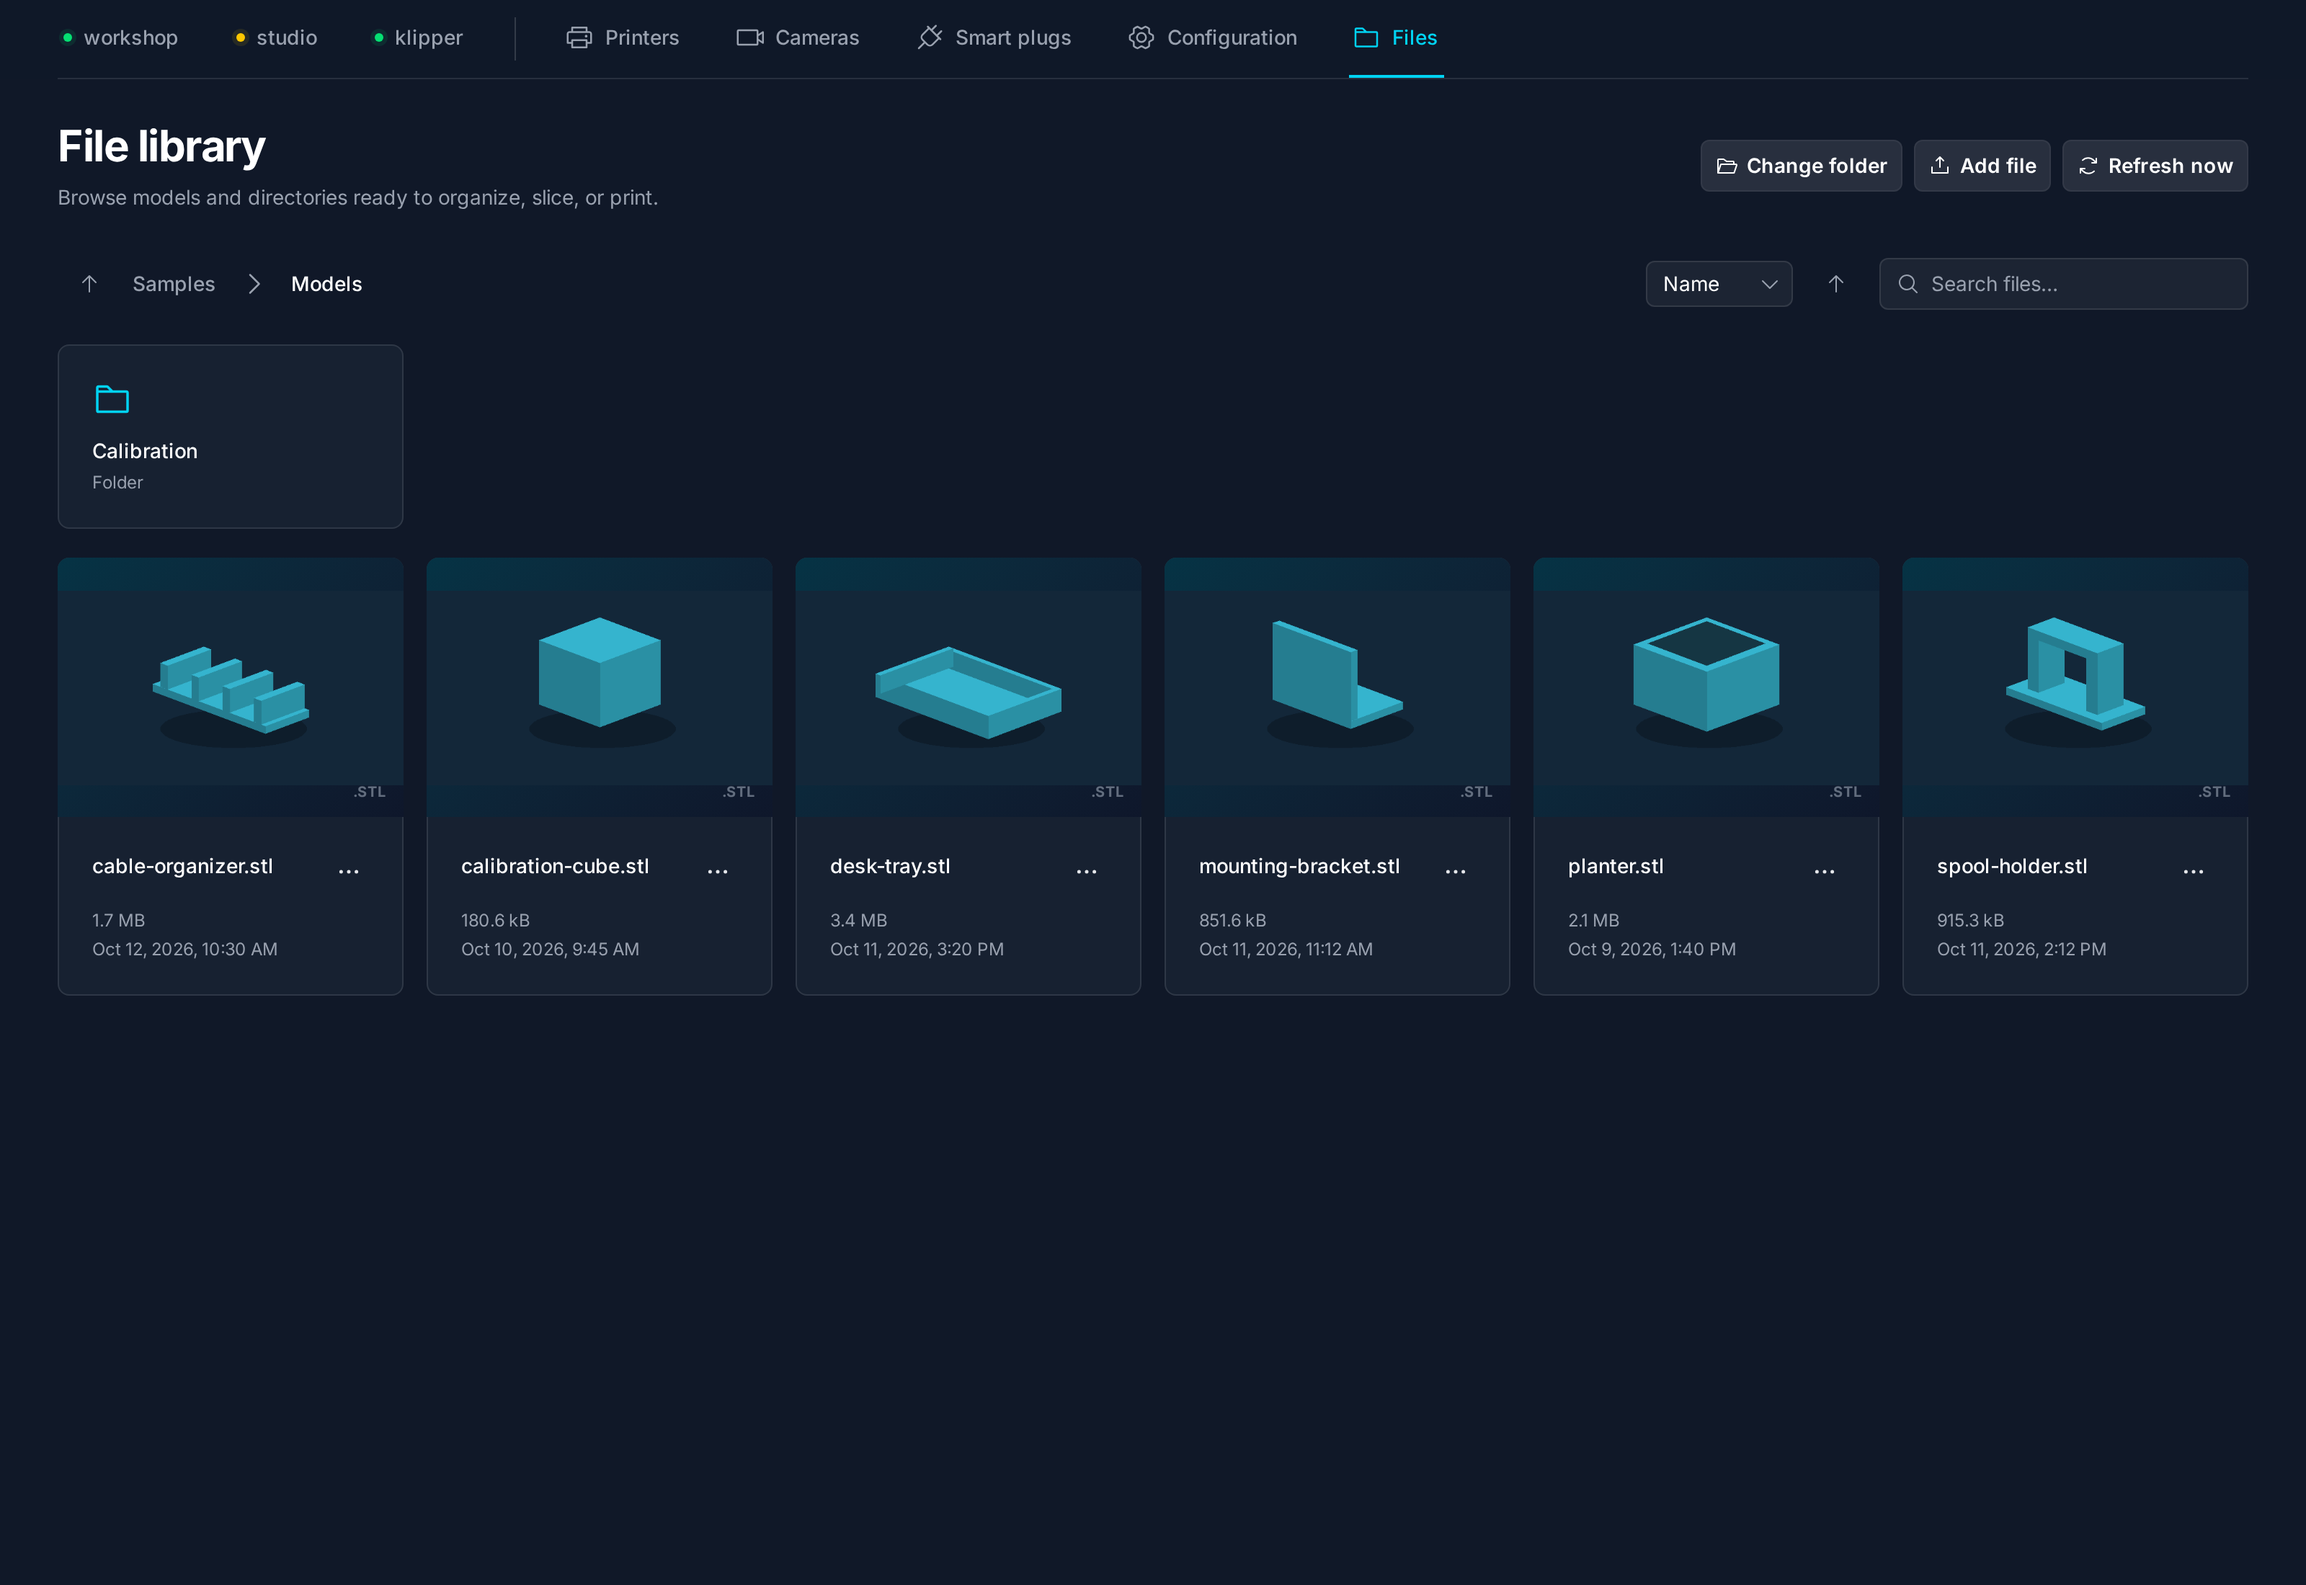
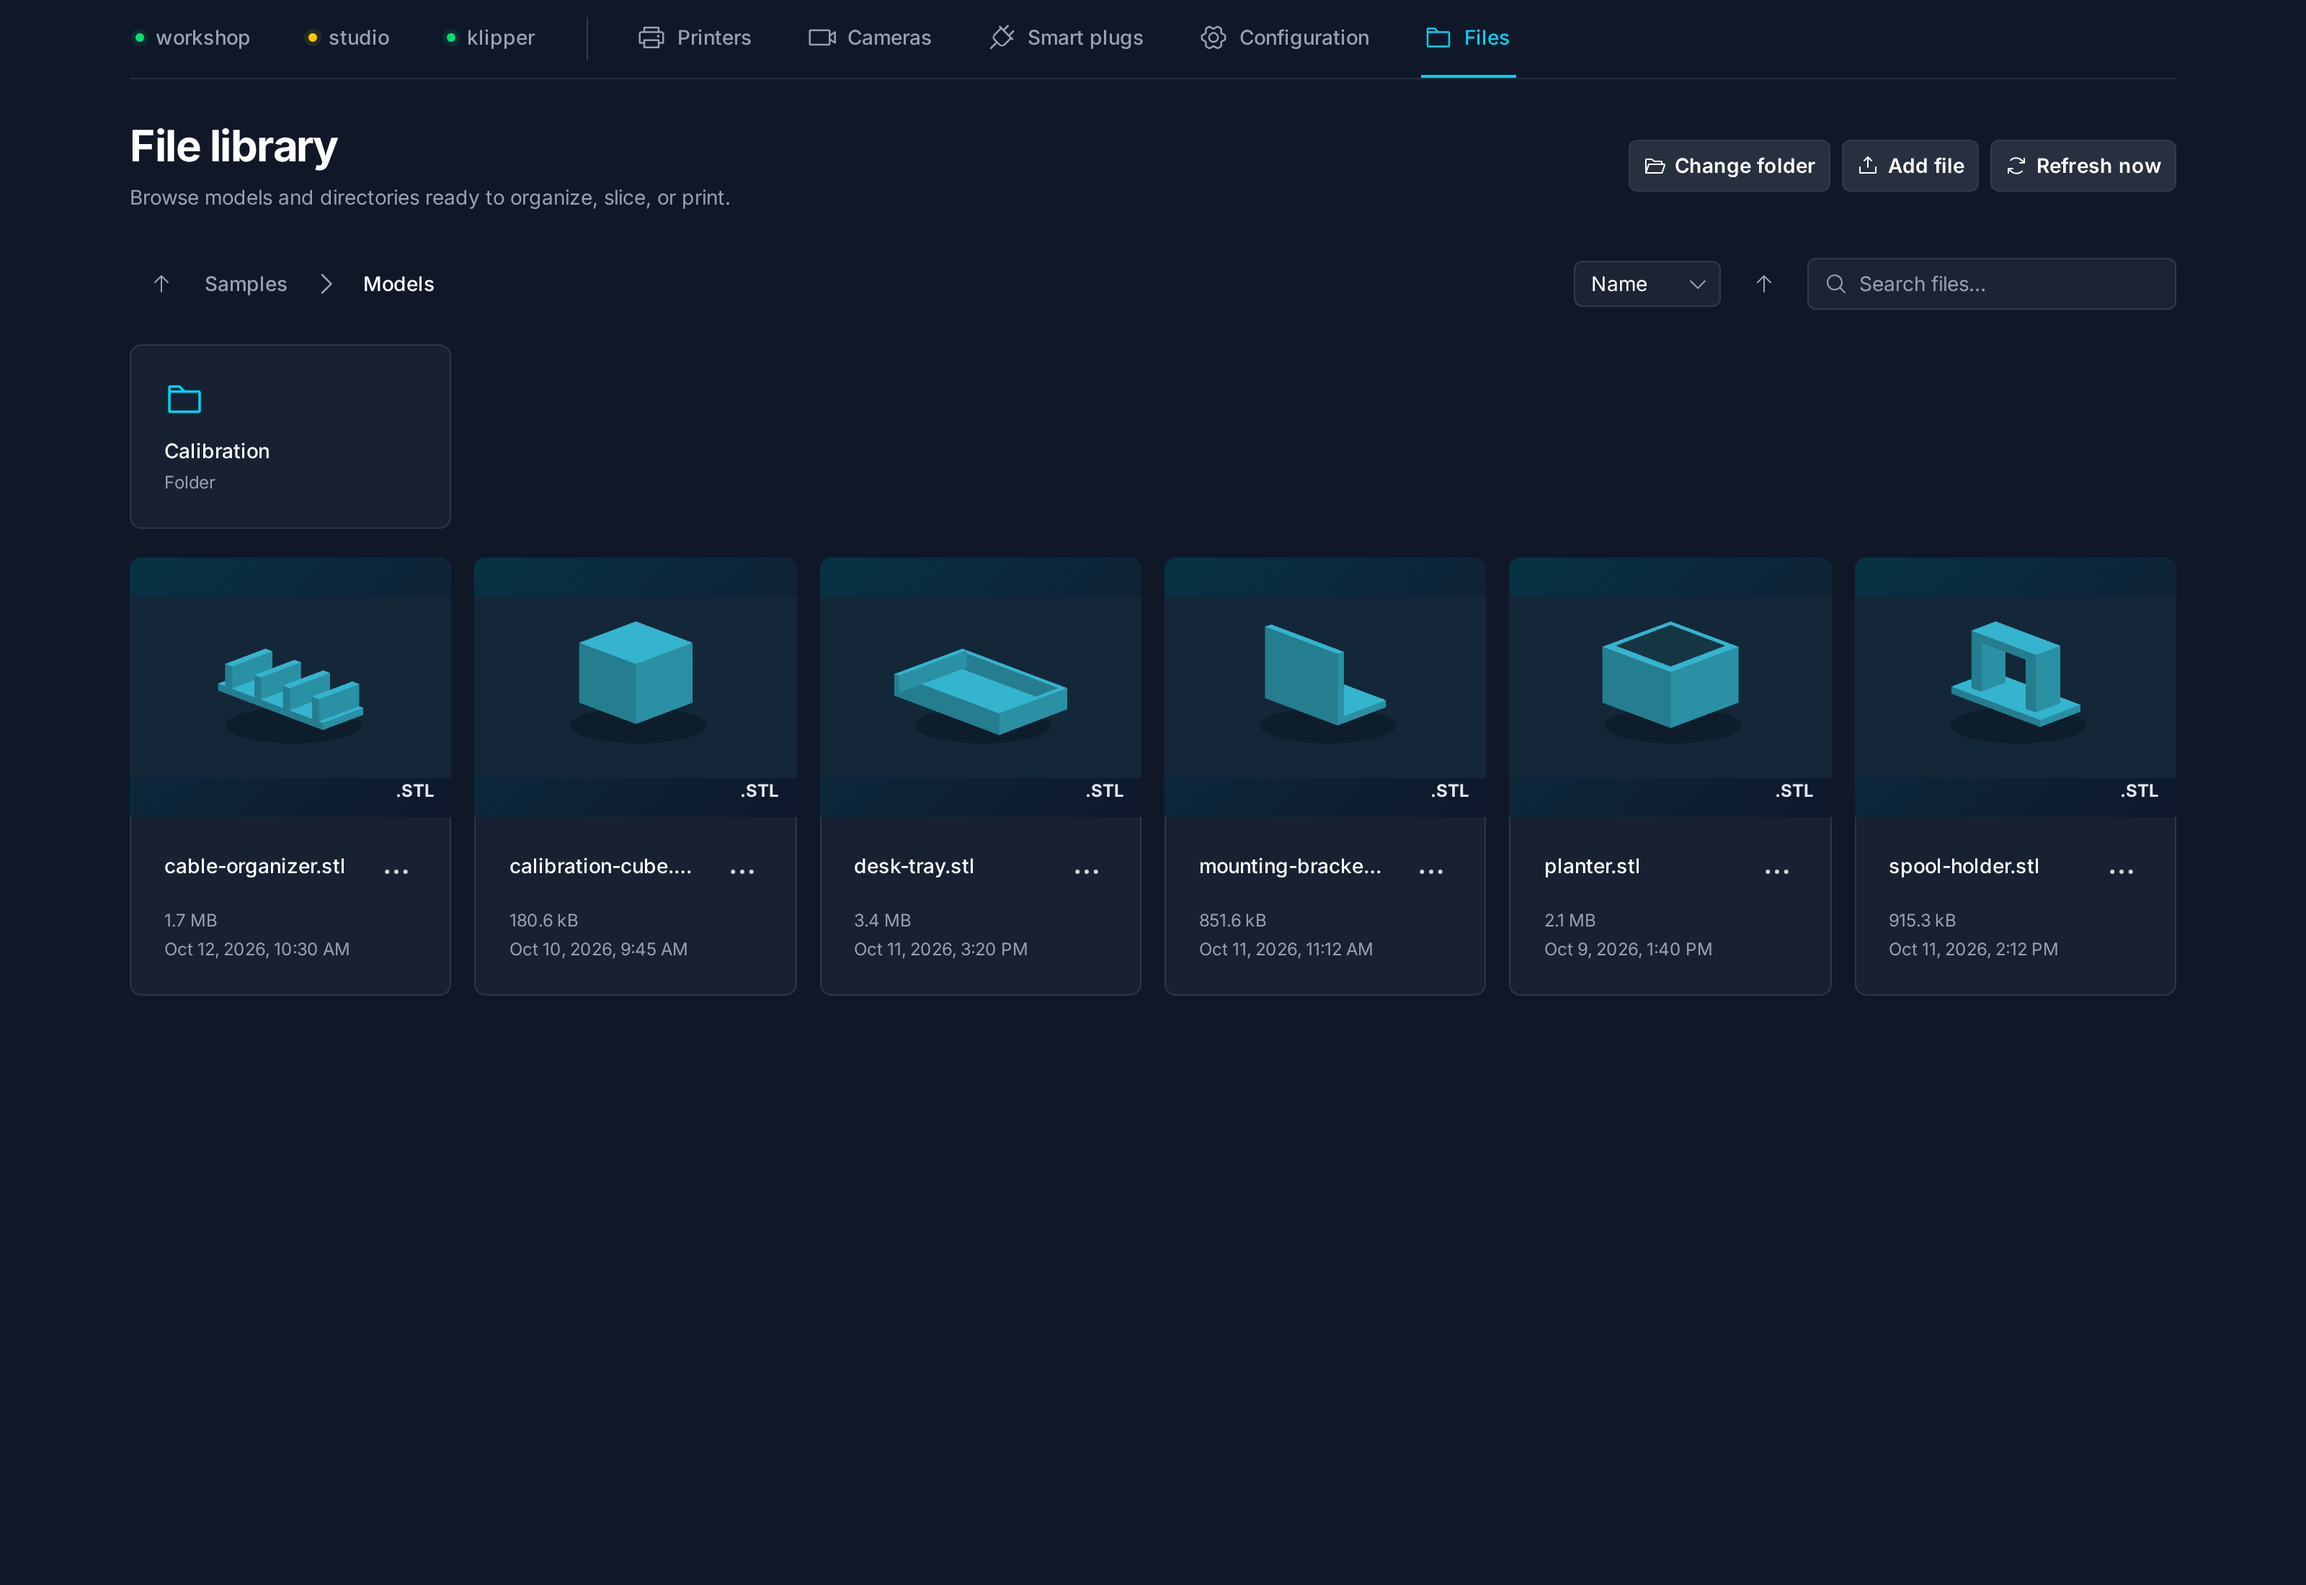
Polish status dots, plug auth errors, RTSP port, file names and menus

diff --git a/ui/src/views/FilesView.vue b/ui/src/views/FilesView.vue
@@ -458,11 +458,11 @@ defineExpose({ refresh: () => loadLibraryFiles(libraryPath.value), requestPrint,
             v-if="isModelFile(file)"
             class="pointer-events-none absolute inset-0 grid place-items-center bg-gray-950/45 opacity-0 transition-opacity group-hover:opacity-100 group-focus-visible:opacity-100"
           ><PhMagnifyingGlassPlus class="size-8 text-white" aria-hidden="true" /></span>
-          <span class="absolute right-3 bottom-2.5 text-[10px] font-bold text-gray-500 uppercase dark:text-slate-300/45">.{{ fileTypeLabel(file).toLowerCase() }}</span>
+          <span class="absolute right-3 bottom-2.5 text-xs font-bold text-gray-700 uppercase dark:text-slate-200">.{{ fileTypeLabel(file).toLowerCase() }}</span>
         </component>
         <div class="px-4 py-5 sm:p-6">
           <div class="flex items-start gap-3">
-            <h3 class="min-w-0 flex-1 line-clamp-2 wrap-anywhere text-sm font-medium text-gray-900 dark:text-white" :title="file.name" translate="no">{{ file.name }}</h3>
+            <h3 class="min-w-0 flex-1 text-sm font-medium text-gray-900 dark:text-white" :title="file.name" translate="no"><MiddleEllipsis :text="file.name" /></h3>
             <ActionMenu v-if="fileActionItems(file).length" class="-mt-2 -mr-2" :label="t('filesView.moreActions')" :items="fileActionItems(file)" />
           </div>
           <p class="mt-1 text-xs text-gray-500 dark:text-gray-400">

diff --git a/ui/src/views/CamerasView.vue b/ui/src/views/CamerasView.vue
@@ -55,7 +55,7 @@ const cameraQuality = ref<Quality>('high')
 const cameraViewer = ref<InstanceType<typeof CameraViewer>>()
 const cameraFormOpen = ref(false)
 const editingCamera = ref<string>()
-const cameraDraft = ref({ name: '', host: '', username: '', password: '', rtspPort: '', timeout: '10s', printers: [] as string[] })
+const cameraDraft = ref({ name: '', host: '', username: '', password: '', rtspPort: '554', timeout: '10s', printers: [] as string[] })
 const cameraSaving = ref(false)
 const cameraFormError = ref<string>()
 
@@ -66,7 +66,7 @@ function openCameraForm(camera?: CameraSummary) {
     host: camera?.host ?? '',
     username: camera?.username ?? '',
     password: '',
-    rtspPort: camera && camera.rtspPort !== 554 ? String(camera.rtspPort) : '',
+    rtspPort: String(camera?.rtspPort ?? 554),
     timeout: camera?.timeout ?? '10s',
     printers: [...(camera?.printers ?? [])],
   }
@@ -85,7 +85,7 @@ async function saveCamera() {
     host: draft.host,
     username: draft.username,
     password: draft.password,
-    rtspPort: draft.rtspPort ? Number(draft.rtspPort) : null,
+    rtspPort: draft.rtspPort && draft.rtspPort !== '554' ? Number(draft.rtspPort) : null,
     timeout: draft.timeout,
   }
   try {

diff --git a/ui/src/components/PlugControl.vue b/ui/src/components/PlugControl.vue
@@ -130,7 +130,7 @@ function confirmOff() {
           <span v-if="observation && observation.powerWatts !== null" class="text-sm font-semibold tabular-nums text-gray-900 dark:text-white">{{ t('plugsView.power', { watts: observation.powerWatts }) }}</span>
         </div>
         <p class="mt-1 text-xs text-gray-500 dark:text-gray-400">{{ attached }}</p>
-        <p class="mt-0.5 text-xs" :class="observation && observation.connection !== 'online' ? 'text-amber-700 dark:text-amber-400' : 'text-gray-500 dark:text-gray-400'">{{ metaLine }}</p>
+        <p class="mt-0.5 text-xs" :class="observation?.connection === 'authFailed' ? 'text-red-700 dark:text-red-400' : observation && observation.connection !== 'online' ? 'text-amber-700 dark:text-amber-400' : 'text-gray-500 dark:text-gray-400'">{{ metaLine }}</p>
       </div>
       <div class="ml-auto flex flex-wrap justify-end gap-2">
         <!-- Unknown relay shows both: a guess could hide the action the user needs. -->

diff --git a/ui/src/presentation.ts b/ui/src/presentation.ts
@@ -14,7 +14,8 @@ export const badgeDotClasses: Record<PrinterBadge, string> = {
   idle: 'bg-green-500 ring-green-500/10 dark:bg-green-400 dark:ring-green-400/10',
   busy: 'bg-yellow-500 ring-yellow-500/10 dark:bg-yellow-400 dark:ring-yellow-400/10',
   error: 'bg-red-600 ring-red-600/20 dark:bg-red-500 dark:ring-red-500/20',
-  reconnecting: 'bg-amber-500 ring-amber-500/10 dark:bg-amber-400 dark:ring-amber-400/10',
+  // Hollow pulsing ring: shape, not only hue, separates it from filled gold `busy`.
+  reconnecting: 'animate-pulse bg-transparent ring-amber-500 motion-reduce:animate-none dark:ring-amber-400',
   connecting: 'bg-gray-400 ring-gray-400/10 dark:bg-gray-500 dark:ring-gray-500/10',
   synchronizing: 'bg-gray-400 ring-gray-400/10 dark:bg-gray-500 dark:ring-gray-500/10',
   offline: 'bg-red-500 ring-red-500/10 dark:bg-red-400 dark:ring-red-400/10',
